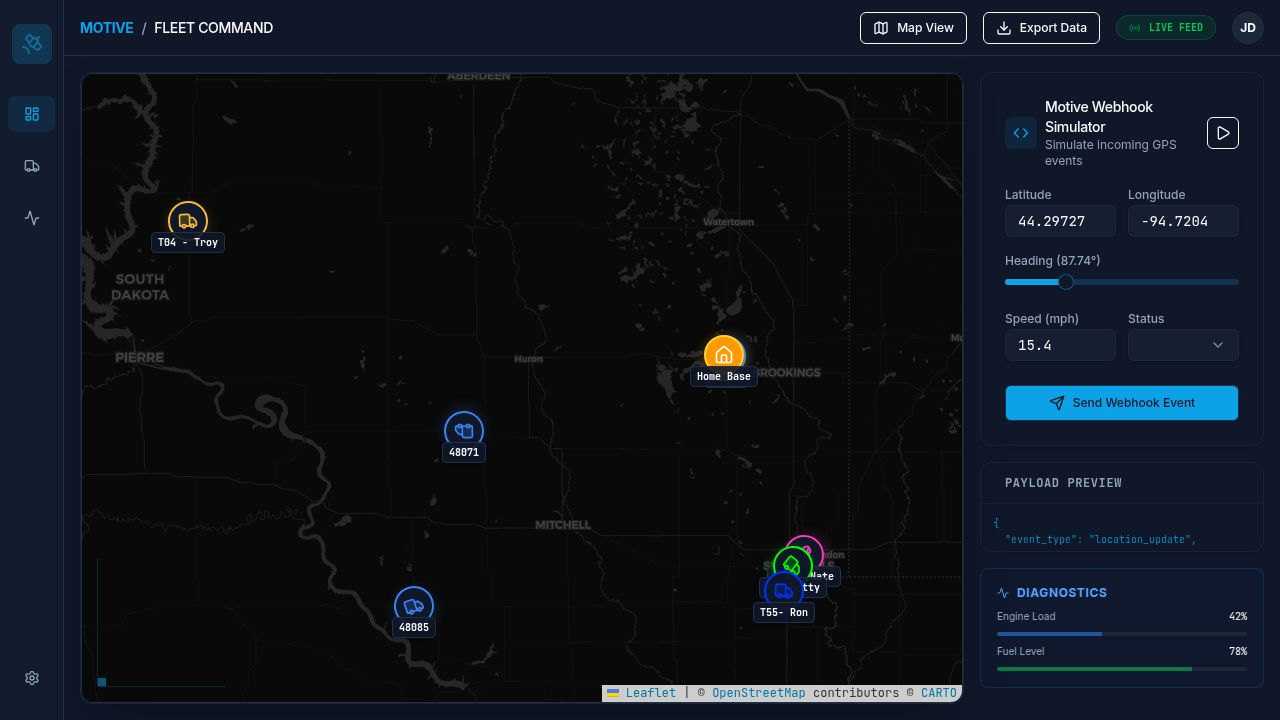
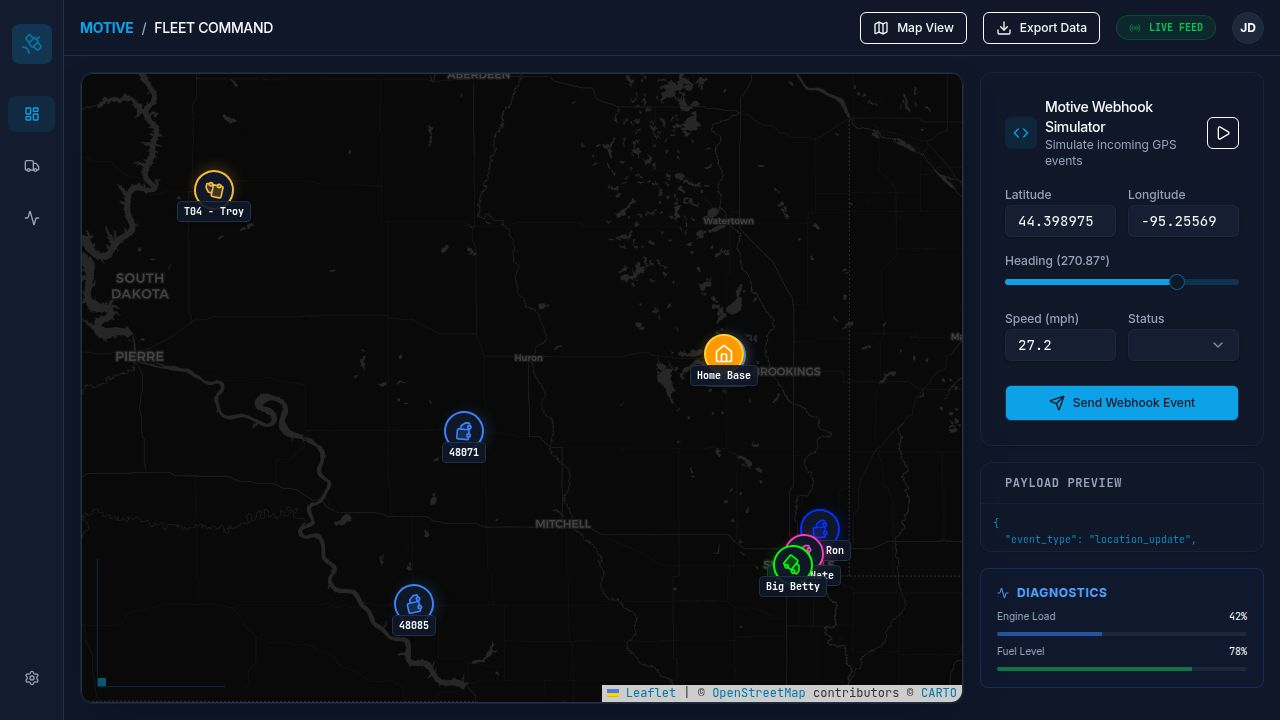
Add adjustable zoom controls to the map view page
Implement a zoom slider and buttons on the MapView page, persisting zoom level in localStorage.

Replit-Commit-Author: Agent
Replit-Commit-Session-Id: e7498cd3-7b2d-4182-8123-419b751fce20
Replit-Commit-Checkpoint-Type: full_checkpoint
Replit-Commit-Event-Id: c672086d-714e-4b98-84c9-38eb856c6542
Replit-Commit-Screenshot-Url: https://storage.googleapis.com/screenshot-production-us-central1/ace454c7-bee5-4a6a-86d3-5bee9a5e898b/e7498cd3-7b2d-4182-8123-419b751fce20/NNVKZwL

diff --git a/client/src/pages/MapView.tsx b/client/src/pages/MapView.tsx
@@ -1,9 +1,36 @@
 import { useState, useEffect } from "react";
 import TrackingMap from "@/components/TrackingMap";
 import { useWebSocket } from "@/hooks/useWebSocket";
-import { Radio, Satellite } from "lucide-react";
+import { Radio, Satellite, ZoomIn, ZoomOut, Lock } from "lucide-react";
+import { Slider } from "@/components/ui/slider";
+import { Button } from "@/components/ui/button";
+
+const STORAGE_KEY = "mapview-zoom";
+const DEFAULT_ZOOM = 9;
+const MIN_ZOOM = 6;
+const MAX_ZOOM = 17;
+
+function getSavedZoom(): number {
+  try {
+    const saved = localStorage.getItem(STORAGE_KEY);
+    if (saved) {
+      const zoom = parseInt(saved, 10);
+      if (zoom >= MIN_ZOOM && zoom <= MAX_ZOOM) {
+        return zoom;
+      }
+    }
+  } catch (e) {}
+  return DEFAULT_ZOOM;
+}
+
+function saveZoom(zoom: number) {
+  try {
+    localStorage.setItem(STORAGE_KEY, zoom.toString());
+  } catch (e) {}
+}
 
 export default function MapView() {
+  const [zoom, setZoom] = useState(getSavedZoom);
   const [vehicleData, setVehicleData] = useState<{
     id: string;
     name?: string;
@@ -14,6 +41,15 @@ export default function MapView() {
     timestamp: string;
     heading: number;
   }[]>([]);
+
+  const handleZoomChange = (newZoom: number) => {
+    setZoom(newZoom);
+    saveZoom(newZoom);
+  };
+
+  const handleSliderChange = (value: number[]) => {
+    handleZoomChange(value[0]);
+  };
 
   const loadVehicles = async () => {
     try {
@@ -63,7 +99,15 @@ export default function MapView() {
   return (
     <div className="h-screen w-screen relative bg-background">
       {vehicleData.length > 0 ? (
-        <TrackingMap data={vehicleData} onVehicleUpdate={loadVehicles} />
+        <TrackingMap 
+          data={vehicleData} 
+          onVehicleUpdate={loadVehicles}
+          zoom={zoom}
+          minZoom={MIN_ZOOM}
+          maxZoom={MAX_ZOOM}
+          onZoomChange={handleZoomChange}
+          autoFitBounds={false}
+        />
       ) : (
         <div className="h-full w-full flex flex-col items-center justify-center bg-background text-muted-foreground">
           <Satellite className="w-16 h-16 mb-4 animate-pulse text-primary/50" />
@@ -74,7 +118,6 @@ export default function MapView() {
         </div>
       )}
 
-      {/* Minimal overlay controls */}
       <div className="absolute top-4 left-4 z-[1000] flex items-center gap-3">
         <div className={`flex items-center gap-2 px-3 py-1.5 rounded-full border bg-background/90 backdrop-blur-sm shadow-lg ${
           isConnected 
@@ -90,7 +133,6 @@ export default function MapView() {
         </div>
       </div>
 
-      {/* Vehicle count badge */}
       {vehicleData.length > 0 && (
         <div className="absolute top-4 right-4 z-[1000] px-3 py-1.5 rounded-full bg-background/90 backdrop-blur-sm border border-border shadow-lg">
           <span className="text-xs font-mono">
@@ -99,6 +141,49 @@ export default function MapView() {
           </span>
         </div>
       )}
+
+      <div className="absolute bottom-6 left-1/2 -translate-x-1/2 z-[1000] bg-background/50 backdrop-blur-sm border border-border rounded-lg shadow-xl p-3 flex items-center gap-3">
+        <Button
+          variant="ghost"
+          size="icon"
+          className="h-8 w-8"
+          onClick={() => handleZoomChange(Math.max(MIN_ZOOM, zoom - 1))}
+          disabled={zoom <= MIN_ZOOM}
+          data-testid="button-zoom-out"
+        >
+          <ZoomOut className="w-4 h-4" />
+        </Button>
+        
+        <div className="flex items-center gap-2 w-48">
+          <Slider
+            value={[zoom]}
+            min={MIN_ZOOM}
+            max={MAX_ZOOM}
+            step={1}
+            onValueChange={handleSliderChange}
+            className="w-full"
+            data-testid="slider-zoom"
+          />
+        </div>
+        
+        <Button
+          variant="ghost"
+          size="icon"
+          className="h-8 w-8"
+          onClick={() => handleZoomChange(Math.min(MAX_ZOOM, zoom + 1))}
+          disabled={zoom >= MAX_ZOOM}
+          data-testid="button-zoom-in"
+        >
+          <ZoomIn className="w-4 h-4" />
+        </Button>
+        
+        <div className="flex items-center gap-1.5 pl-2 border-l border-border">
+          <Lock className="w-3 h-3 text-green-500" />
+          <span className="text-[10px] font-mono text-muted-foreground">
+            Zoom: <span className="text-primary font-bold">{zoom}</span>
+          </span>
+        </div>
+      </div>
     </div>
   );
 }
